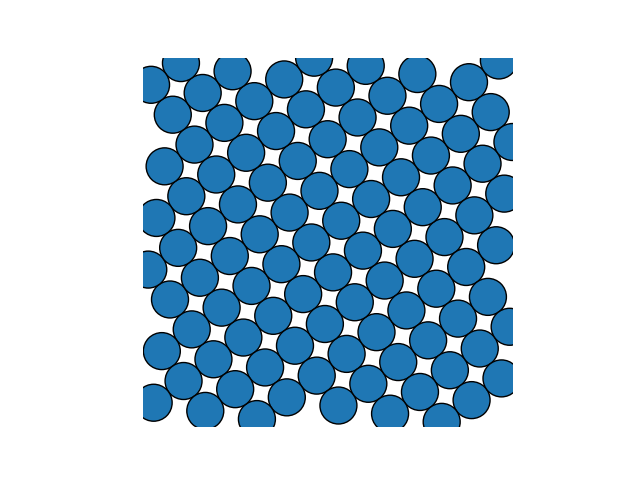
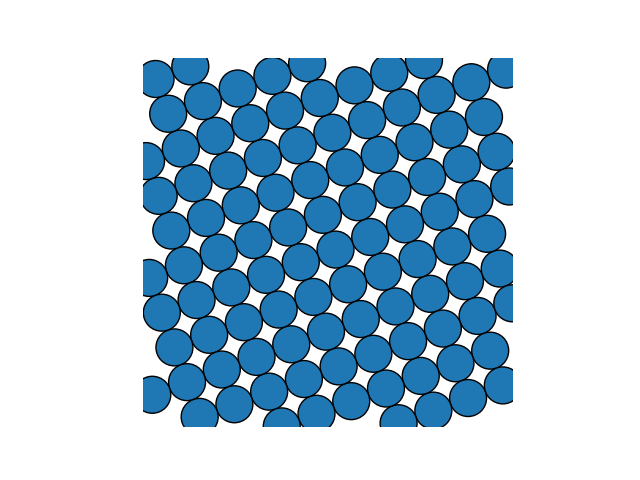
Testes

Changed region(s): [[0.2188, 0.0938, 0.8125, 0.9062]]

diff --git a/solver/crystal/crystal.py b/solver/crystal/crystal.py
@@ -74,45 +74,65 @@ class Crystal:
         
         
     def seed_grains(self):
-        """Place the ngrain seeds randomly, a minimum distance apart."""
         
         """De acordo com o critério de validação de distancia minima entre os 
         seeds (Origens) dos Grains, obtém o ponto de origem de cada um dos 
         Grains e os instancia."""
         
-        print("seed_grains")
-
+        """Esta funcão foi ajustada em 11/12/2021 para quando só existir 
+        1 Grain aceitar diretamente o seed sugerido pelo ramdomize. Neste caso,
+        não há necessidade do uso de seed_minimum_distance como critério de 
+        validação.
+        """
+        
+        """Caso no futuro deseje-se utilizar esta função para multiplos Grains
+        deve-se verificar a necessidade de ajustar o código, pois ocorre 
+        aceitação do seed proposto pelo randomize independente do critério de
+        validação seed_minimum_distance.
+        """
+        
         # Reset the crystal.
         self.atoms, self.grains = [], []
-        self.sim_cells = SimCells(self.atom_diameter, factor=self.xsize)
+        self.sim_cells = SimCells(self.atom_diameter)
 
-        for i in range(self.ngrains):
-            while True:
-                grain_origin_atom_coord = np.random.random((2,))
-                grain_origin_atom_coord[0] = grain_origin_atom_coord[0] * self.xsize
-                grain_origin_atom_coord[1] = grain_origin_atom_coord[1] * self.ysize
-                print("\ngrain_origin_atom_coord: ", grain_origin_atom_coord)
-                print("len(self.atoms): ", len(self.atoms))
-                
-                for atom in self.atoms:
-                    #print()
-                    print("atom grain_origin_atom_coord: ", grain_origin_atom_coord)
-                    print("atom coords: ", atom.coords)
-                    print("atom distance: ", distance(grain_origin_atom_coord, atom.coords))
-                    print("atom seed_minimum_distance: ", self.seed_minimum_distance)
-                    
-                    if distance(grain_origin_atom_coord, atom.coords) < self.seed_minimum_distance:
-                        # Seed atom too close to another: go back and try again
+        if self.ngrains == 1:
+            grain_origin_atom_coord = np.random.random((2,))
+            grain_origin_atom_coord[0] *= self.xsize
+            grain_origin_atom_coord[1] *= self.ysize
+            
+            print("VEIO PRA CÁ")
+            # Initialise a grain and add its seed atom.
+            grain = Grain(0, grain_origin_atom_coord, self.lattice)
+            self.grains.append(grain)
+            atom = Atom(grain, grain_origin_atom_coord)
+            self.atoms.append(atom)
+            self.sim_cells.add_atom_to_cell(atom)            
+
+        else:
+            for i in range(self.ngrains):
+                print("\n\ni: ", i, len(self.atoms))
+                while True:
+                    grain_origin_atom_coord = np.random.random((2,))
+                    for atom in self.atoms:
+    
+                        if distance(grain_origin_atom_coord, atom.coords) < self.seed_minimum_distance:
+                            print(grain_origin_atom_coord, atom.coords, 
+                                  distance(grain_origin_atom_coord, atom.coords), 
+                                  self.seed_minimum_distance, len(self.atoms), "ACEITOU ATOM!\n")
+                            # Seed atom too close to another: go back and try again
+                            break
+                        print(grain_origin_atom_coord, atom.coords, 
+                              distance(grain_origin_atom_coord, atom.coords), 
+                              self.seed_minimum_distance, len(self.atoms), "NÃO ACEITOU ATOM!")
+                    else:
+                        print("VEIO PRA CÁ")
+                        # Initialise a grain and add its seed atom.
+                        grain = Grain(i, grain_origin_atom_coord, self.lattice)
+                        self.grains.append(grain)
+                        atom = Atom(grain, grain_origin_atom_coord)
+                        self.atoms.append(atom)
+                        self.sim_cells.add_atom_to_cell(atom)
                         break
-                else:
-                    # Initialise a grain and add its seed atom.
-                    grain = Grain(i, grain_origin_atom_coord, self.lattice)
-                    self.grains.append(grain)
-                    print("Atom 001")
-                    atom = Atom(grain, grain_origin_atom_coord)
-                    self.atoms.append(atom)
-                    self.sim_cells.add_atom_to_cell(atom)
-                    break
 
 
     def grow_crystal(self):
@@ -285,21 +305,29 @@ class Crystal:
 # Lattice - arranjo
 # ngrains = ngrains=5, seed_minimum_distance=0.2, lattice='hex',              atom_diameter=0.02
 
-# crystal = Crystal(ngrains=1, 
-#                    seed_minimum_distance=0.01, 
-#                    #lattice='hex', 
-#                    lattice = 'square',
-#                    atom_diameter=0.5,
-#                    xsize=1.0, 
-#                    ysize=1.0)
-
 crystal = Crystal(ngrains=1, 
-                  seed_minimum_distance=10.0, 
-                  #lattice='hex', 
-                  lattice = 'square',
-                  atom_diameter=100.0,
-                  xsize=1000.0, 
-                  ysize=1000.0)
+                    seed_minimum_distance=0.01, 
+                    #lattice='hex', 
+                    lattice = 'square',
+                    atom_diameter=0.5,
+                    xsize=256, 
+                    ysize=256)
+
+# crystal = Crystal(ngrains=1, 
+#                     seed_minimum_distance=0.01, 
+#                     #lattice='hex', 
+#                     lattice = 'square',
+#                     atom_diameter=0.5,
+#                     xsize=1.0, 
+#                     ysize=1.0)
+
+# crystal = Crystal(ngrains=1, 
+#                   seed_minimum_distance=10.0, 
+#                   #lattice='hex', 
+#                   lattice = 'square',
+#                   atom_diameter=100.0,
+#                   xsize=1000.0, 
+#                   ysize=1000.0)
 
 crystal.grow_crystal()
-crystal.plot_crystal(linewidth=0, filename='crystal_008_5.png')
+crystal.plot_crystal(linewidth=0, filename='crystal_008_6.png')

diff --git a/app/menu_functions.py b/app/menu_functions.py
@@ -80,14 +80,14 @@ def on_create_model(*args, **kwargs):
     dlg.view.AddStaticText(box_lattice, label='Lattice:', proportion=1)
     dlg.view.AddChoice(box_lattice, proportion=1, flag=wx.ALIGN_LEFT, widget_name='lattice', options=LATTICE_TYPES, initial=0)
     #   
-    box_seed_min_dist = dlg.view.AddCreateContainer('BoxSizer', ctn_model, 
-                                              orient=wx.HORIZONTAL, proportion=1, flag=wx.EXPAND|wx.ALL, border=5)
-    dlg.view.AddStaticText(box_seed_min_dist, label='Seed minimum distance:', proportion=1)
-    dlg.view.AddTextCtrl(box_seed_min_dist, proportion=1, flag=wx.ALIGN_LEFT, border=5, widget_name='seed_min_dist', initial=0.01)    
-    #
+    # box_seed_min_dist = dlg.view.AddCreateContainer('BoxSizer', ctn_model, 
+    #                                           orient=wx.HORIZONTAL, proportion=1, flag=wx.EXPAND|wx.ALL, border=5)
+    # dlg.view.AddStaticText(box_seed_min_dist, label='Seed minimum distance:', proportion=1)
+    # dlg.view.AddTextCtrl(box_seed_min_dist, proportion=1, flag=wx.ALIGN_LEFT, border=5, widget_name='seed_min_dist', initial=0.01)    
+    # #
     box_diameter = dlg.view.AddCreateContainer('BoxSizer', ctn_model, 
                                            orient=wx.HORIZONTAL, proportion=1, flag=wx.EXPAND|wx.ALL, border=5)
-    dlg.view.AddStaticText(box_diameter, label='Diameter:', proportion=1)
+    dlg.view.AddStaticText(box_diameter, label='Circle diameter:', proportion=1)
     dlg.view.AddTextCtrl(box_diameter, proportion=1, flag=wx.ALIGN_LEFT, border=5, widget_name='diameter', initial=0.5) # 10px
     #    
     #
@@ -233,9 +233,9 @@ def on_create_model(*args, **kwargs):
             print(results)
             filename='crystal_008.png'
             crystal = Crystal(ngrains=1, 
-                  seed_minimum_distance=float(results.get('seed_min_dist')), 
+                  #seed_minimum_distance=float(results.get('seed_min_dist')), 
                   lattice = results.get('lattice'),
-                  d=float(results.get('diameter')),
+                  atom_diameter=float(results.get('diameter')),
                   xsize= float(results.get('x_samples')), 
                   ysize=float(results.get('y_samples')))
 

diff --git a/solver/crystal/sim_cells.py b/solver/crystal/sim_cells.py
@@ -33,6 +33,7 @@ class SimCells:
         print("cell_array.shape: ", np.asarray(self.cell_array).shape)
         print(np.asarray([1, 2, 3]).shape)
 
+
     def _get_cell_indexes_from_atom_coords(self, coords):
         """Return the indexes ix, iy of the cell containing point coords."""
 
@@ -46,13 +47,16 @@ class SimCells:
         """Return the cell containing atom."""
 
         ix, iy = self._get_cell_indexes_from_atom_coords(atom.coords)
-        #print("ix, iy: ", ix, iy)
+        
+        print("ix, iy: ", ix, iy)
         return self.cell_array[ix][iy]
+
 
     def add_atom_to_cell(self, atom):
         """Add atom to the appropriate cell."""
 
         self._get_atom_cell(atom).append(atom)
+
 
     def neighbouring_atoms_generator(self, coords):
         """Return a generator yielding all atoms "near" point coords."""

diff --git a/crystal_para_mexer.py b/crystal_para_mexer.py
@@ -79,10 +79,10 @@ class SimCells:
 
     """
 
-    def __init__(self, d):
+    def __init__(self, atom_diameter):
         """Initialize the cell size and the array of cells."""
 
-        self.n = int(1 / 2 / d)
+        self.n = int(1 / 2 / atom_diameter)
         self.a = 1 / self.n
         self.cell_array = [[[] for i in range(self.n)] for j in range(self.n)]
 
@@ -150,6 +150,11 @@ class Crystal:
         validação.
         """
         
+        """Caso no futuro deseje-se utilizar esta função para multiplos Grains
+        deve-se verificar a necessidade de ajustar o código, pois ocorre 
+        aceitação do seed proposto pelo randomize independente do critério de
+        validação seed_minimum_distance.
+        """
         
         # Reset the crystal.
         self.atoms, self.grains = [], []
